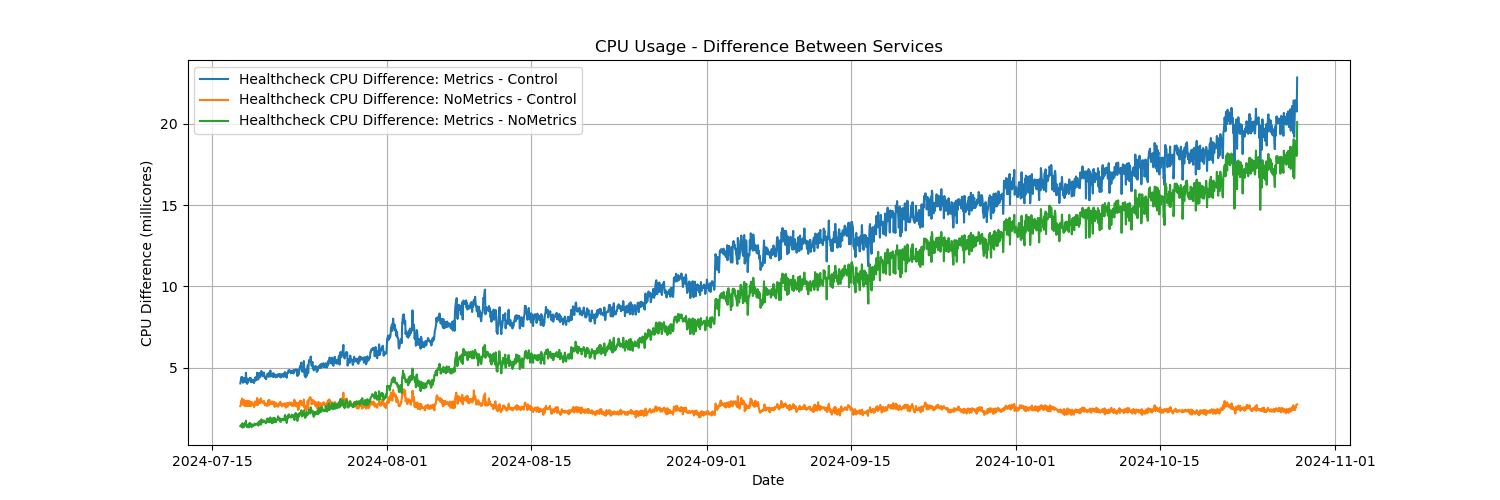
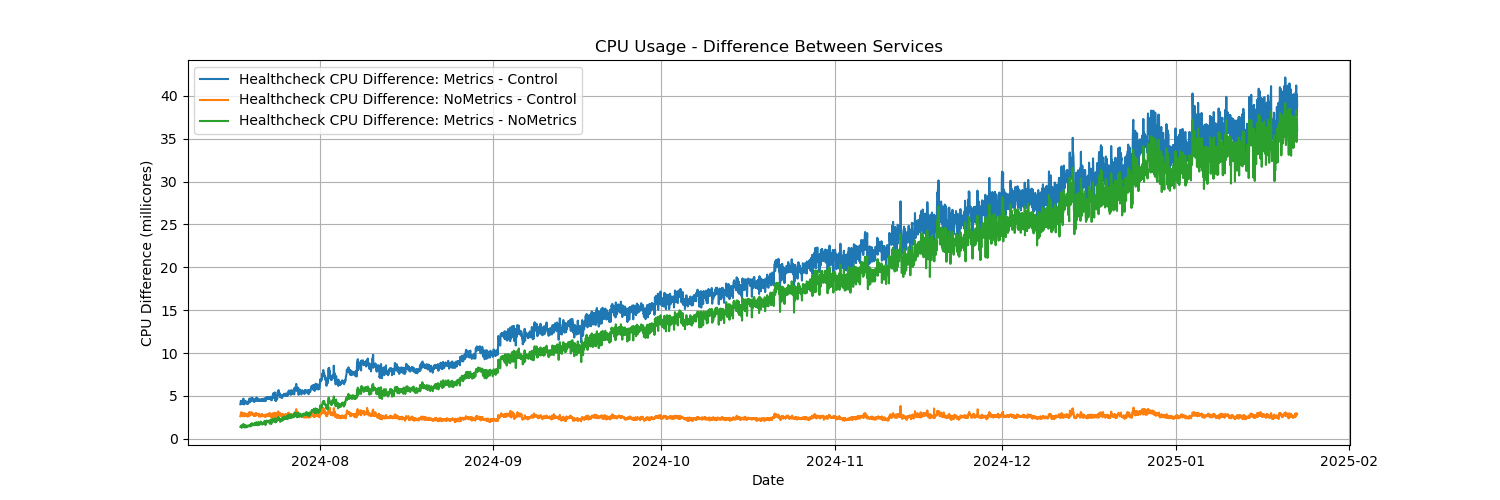
final postprocessing charts

diff --git a/postprocessing/generate_images.py b/postprocessing/generate_images.py
@@ -6,46 +6,69 @@ import matplotlib.pyplot as plt
 def get_data():
     start_time = datetime.datetime(2024, 7, 17, 18)
     end_time = start_time + datetime.timedelta(days=7)
-    now = datetime.datetime.now()
+    now = datetime.datetime(2025, 1, 21, 18)
 
     headers = {
         'DD-API-KEY': os.environ['DD-API-KEY'],
         'DD-APPLICATION-KEY': os.environ['DD-APPLICATION-KEY']
     }
 
-    pointlists_by_container = {}
+    cpu_pointlists_by_container = {}
+    mem_pointlists_by_service = {}
 
     while start_time <= now:
-        batch_params = {
+        cpu_batch_params = {
             'from': start_time.timestamp(),
             'to': end_time.timestamp(),
             'query': 'avg:container.cpu.usage{container_name:trace-metrics-healthcheck-1 OR container_name:trace-nometrics-healthcheck-1 OR container_name:trace-control-healthcheck-1} by {container_name}'
         }
 
-        print(f'Querying batch, {batch_params}')
+        print(f'Querying batch, {cpu_batch_params}')
 
-        json_batch = requests.get('https://api.datadoghq.com/api/v1/query', params=batch_params, headers=headers).json()
+        cpu_json_batch = requests.get('https://api.datadoghq.com/api/v1/query', params=cpu_batch_params, headers=headers).json()
+        cpu_series = cpu_json_batch['series']
+        for i in range(len(cpu_series)):
+            name = cpu_series[i]['tag_set'][0][len('container_name:'):]
+            pointlist = cpu_series[i]['pointlist']
+            if not name in cpu_pointlists_by_container:
+                cpu_pointlists_by_container[name] = []
+            cpu_pointlists_by_container[name] += pointlist
 
-        series = json_batch['series']
-        for i in range(len(series)):
-            name = series[i]['tag_set'][0][len('container_name:'):]
-            pointlist = series[i]['pointlist']
-            if not name in pointlists_by_container:
-                pointlists_by_container[name] = []
-            pointlists_by_container[name] += pointlist
+        mem_batch_params = {
+            'from': start_time.timestamp(),
+            'to': end_time.timestamp(),
+            'query': 'ewma_5(avg:runtime.dotnet.mem.committed{service:metrics-healthcheck OR service:metrics-idle} by {service})'
+        }
+
+        mem_json_batch = requests.get('https://api.datadoghq.com/api/v1/query', params=mem_batch_params, headers=headers).json()
+        mem_series = mem_json_batch['series']
+        for i in range(len(mem_series)):
+            name = mem_series[i]['tag_set'][0][len('service:'):]
+            pointlist = mem_series[i]['pointlist']
+            if not name in mem_pointlists_by_service:
+                mem_pointlists_by_service[name] = []
+            mem_pointlists_by_service[name] += pointlist
 
         start_time = end_time
         end_time = end_time + datetime.timedelta(days=7)
 
-    data_by_container = {}
-    for container_name in pointlists_by_container:
-        values = pointlists_by_container[container_name]
+    cpu_data_by_container = {}
+    for container_name in cpu_pointlists_by_container:
+        values = cpu_pointlists_by_container[container_name]
         cpu_values = [item[1] / 1_000_000 for item in values] # convert microcores to millicores
         timestamps = [item[0] / 1000 for item in values] # convert ms since epoch to seconds since epoch
         dates = [datetime.datetime.fromtimestamp(ts) for ts in timestamps]
-        data_by_container[container_name] = {'dates': dates, 'cpu_values': cpu_values}
+        cpu_data_by_container[container_name] = {'dates': dates, 'cpu_values': cpu_values}
 
-    return data_by_container
+    mem_data_by_service = {}
+    for service in mem_pointlists_by_service:
+        values = mem_pointlists_by_service[service]
+        mem_values = [item[1] / (1024*1024) for item in values] # convert to MiB
+        timestamps = [item[0] / 1000 for item in values] # convert ms since epoch to seconds since epoch
+        dates = [datetime.datetime.fromtimestamp(ts) for ts in timestamps]
+        mem_data_by_service[service] = {'dates': dates, 'mem_values': mem_values}
+
+    return cpu_data_by_container, mem_data_by_service
 
 
 def generate_cpu_chart(data_by_container):
@@ -93,11 +116,32 @@ def generate_cpu_diff_chart(data_by_container):
     ax.legend()
     return fig
 
-if '__main__' == __name__:
-    data_by_container = get_data()
+def generate_mem_chart(mem_data):
+    fig = plt.figure(figsize=(15, 5))
+    fig.tight_layout(pad=3)
+    ax = fig.add_subplot()
+    ax.set_xlabel('Date')
+    ax.set_ylabel('.Net Committed Memory Value (MiB)')
+    ax.grid(True)
+    ax.set_title(f'.Net Committed Memory by Service')
 
-    fig1 = generate_cpu_chart(data_by_container)
-    fig2 = generate_cpu_diff_chart(data_by_container)
+    idle = mem_data['metrics-idle']['mem_values']
+    healthcheck = mem_data['metrics-healthcheck']['mem_values']
+    dates = mem_data['metrics-idle']['dates']
+
+    ax.plot(dates, idle, label='metrics-idle')
+    ax.plot(dates, healthcheck, label='metrics-healthcheck')
+    ax.legend()
+
+    return fig
+
+if '__main__' == __name__:
+    cpu_data, mem_data = get_data()
+
+    fig1 = generate_cpu_chart(cpu_data)
+    fig2 = generate_cpu_diff_chart(cpu_data)
+    fig3 = generate_mem_chart(mem_data)
 
     fig1.savefig('cpu-usage.png')
     fig2.savefig('cpu-diff.png')
+    fig3.savefig('mem-diff.png')
